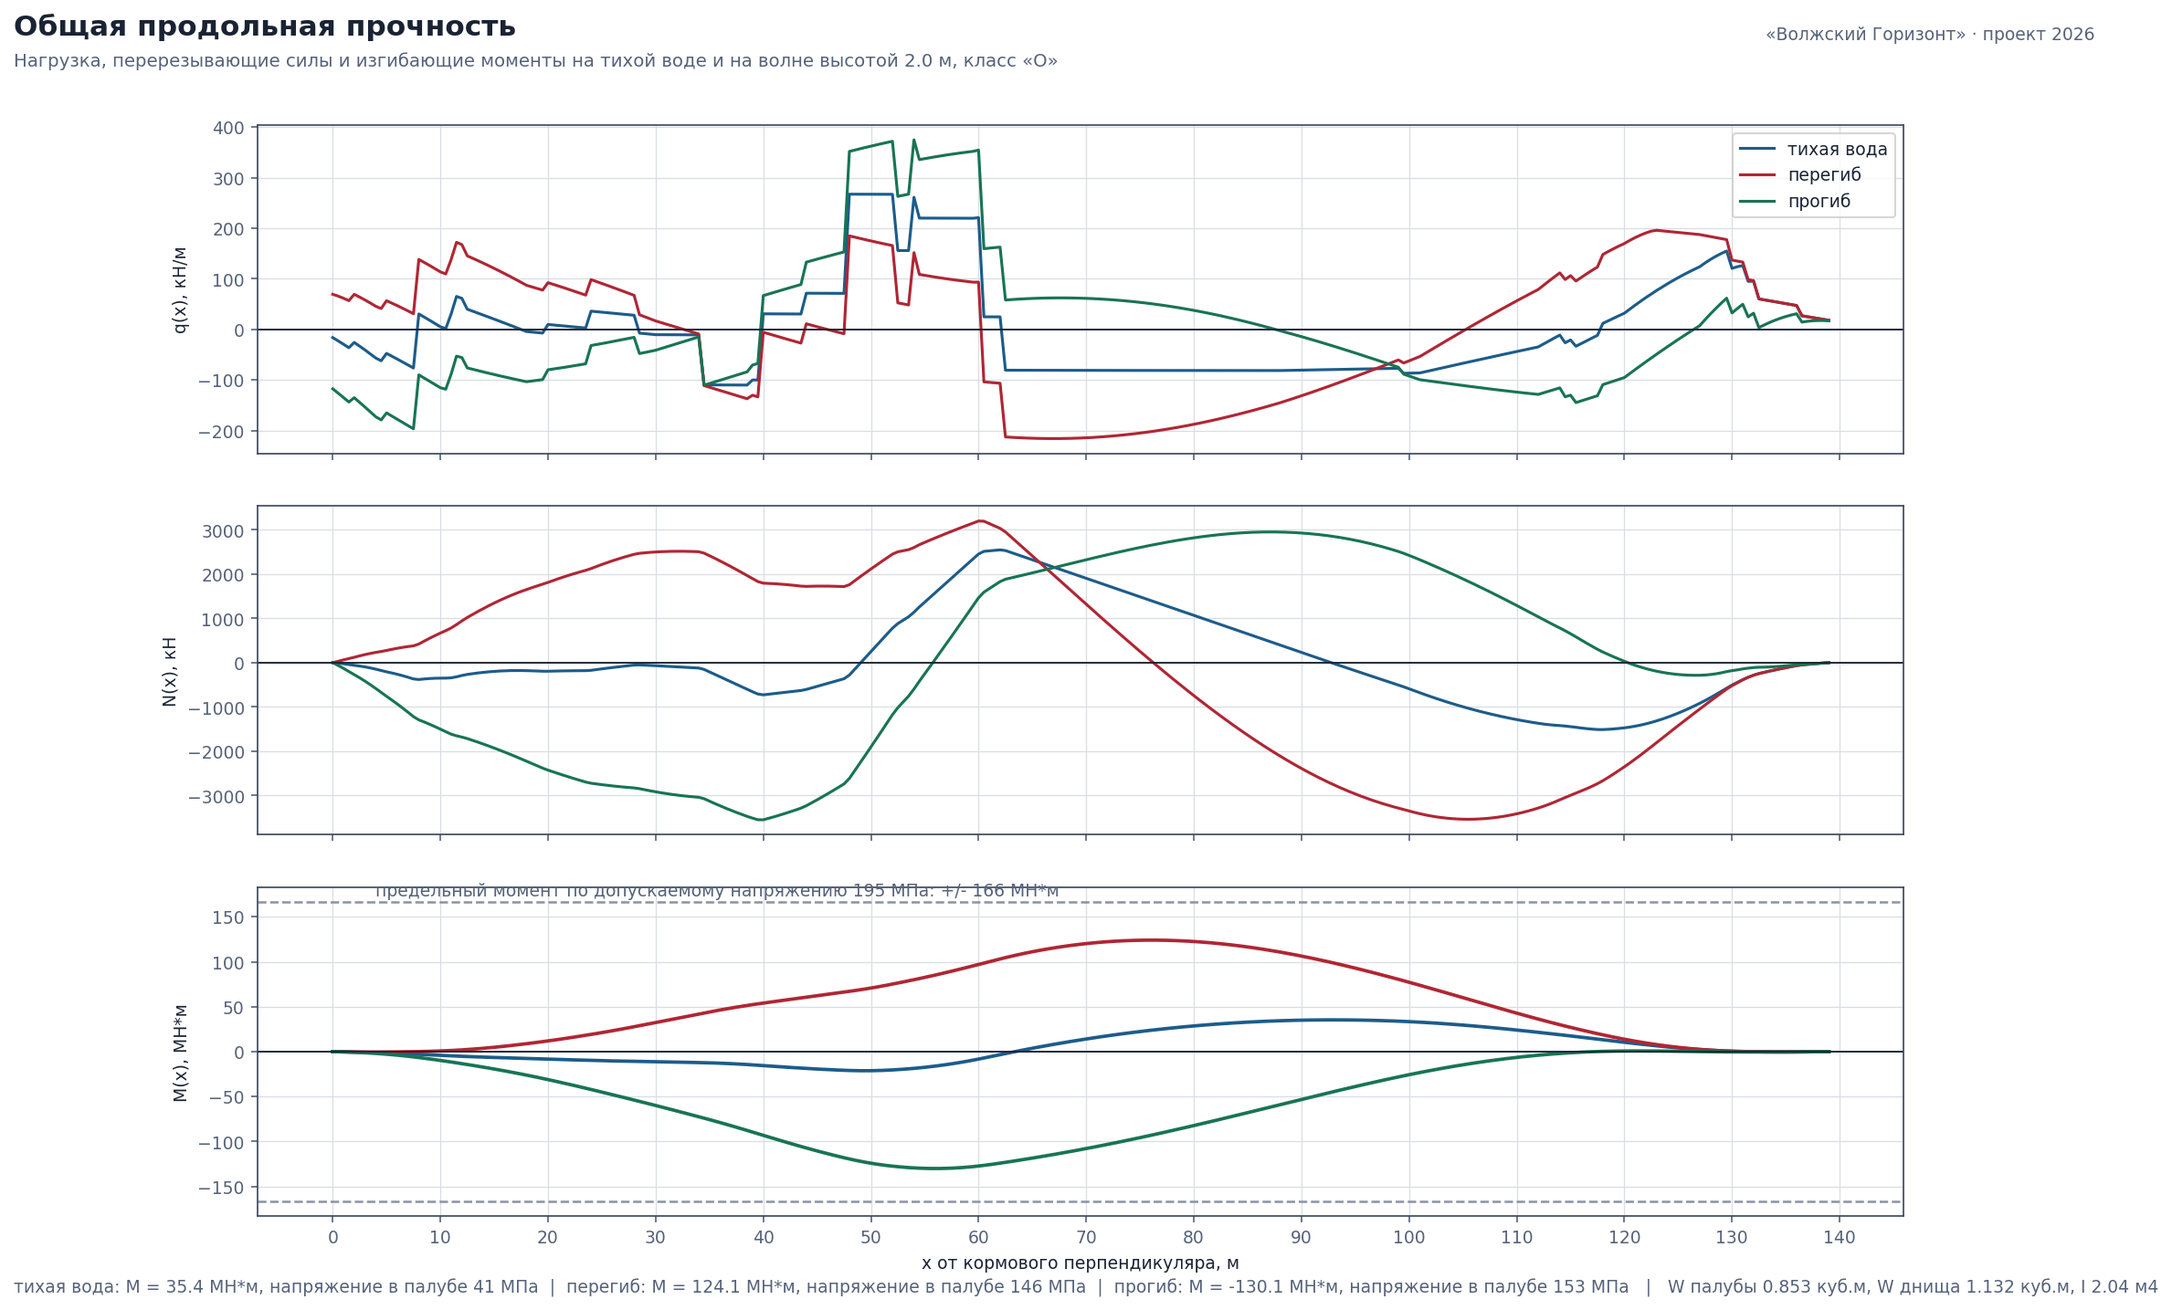
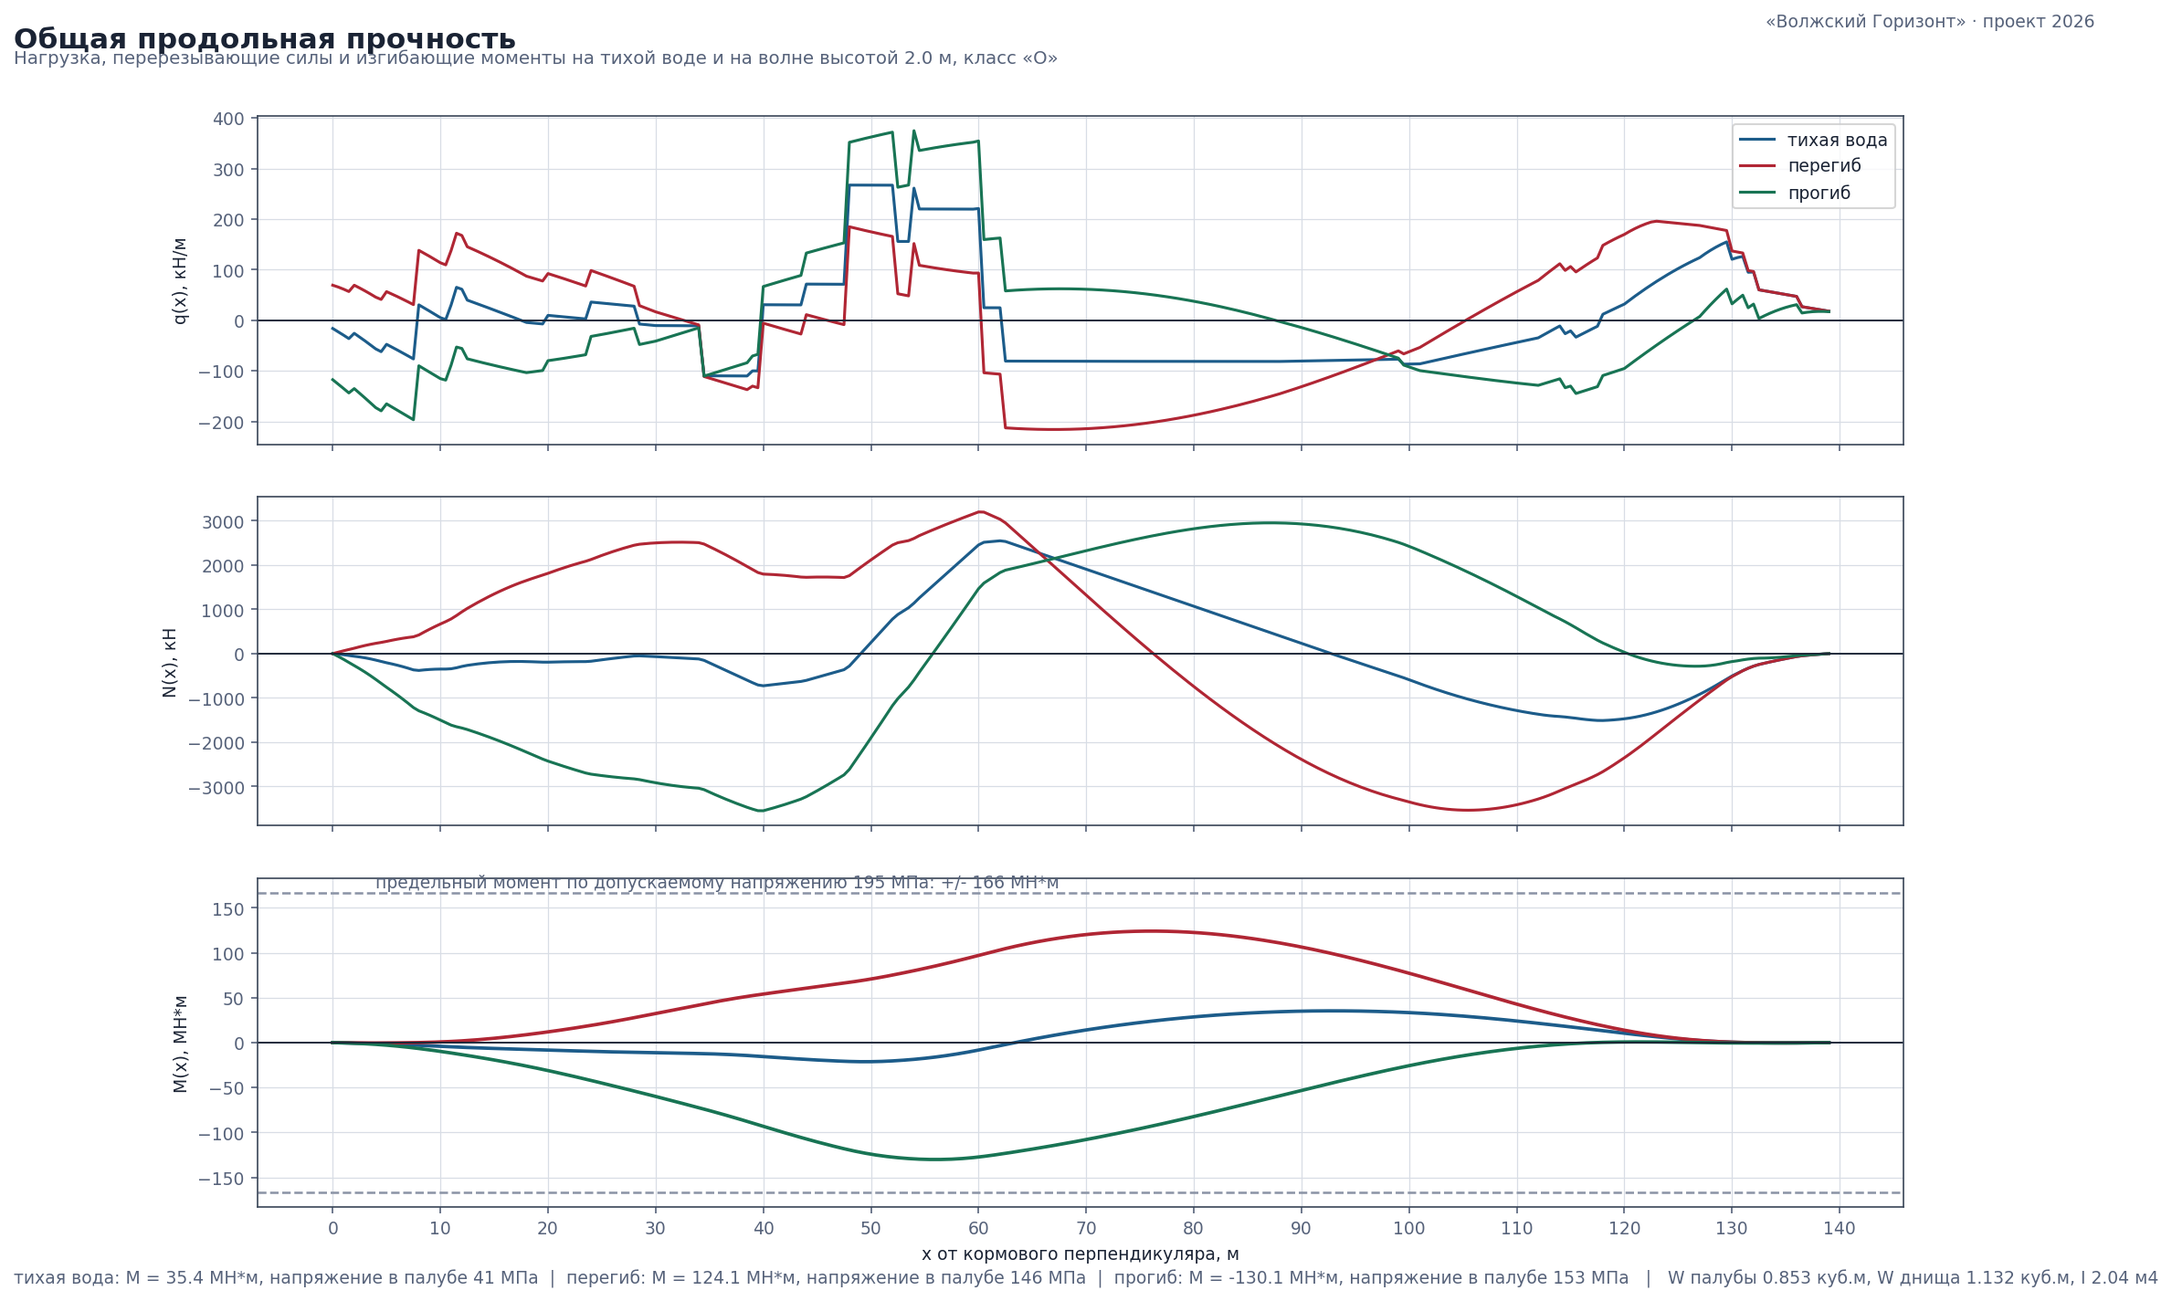
Сводный лист расчётов и скрипты, которые строят всю графику
Лист «Теория корабля и прочность» собирает на одном полотне теоретический
чертёж, кривые элементов, диаграммы остойчивости, ходкость, продольную
прочность, конструктивный мидель-шпангоут и чертёж кницы — для защиты
проекта и для беглого просмотра с телефона.

Скрипты построения перенесены из временной папки в scripts/ и работают от
корня репозитория, без абсолютных путей: любой в команде может пересобрать
графику после правки обводов или нагрузки.

Убрал дублирующий теоретический чертёж из расчёты_графики.py — он строится
отдельным скриптом в едином масштабе по всем трём проекциям.

diff --git a/scripts/расчёты_графики.py b/scripts/расчёты_графики.py
@@ -21,9 +21,12 @@ INK, ACC, SEA, GRN = "#1a2334", "#b02634", "#1c5c8a", "#187454"
 
 
 def head(fig, title, sub):
-    fig.suptitle(title, fontsize=15, fontweight="bold", x=0.01, ha="left", y=0.985)
-    fig.text(0.01, 0.945, sub, fontsize=9.5, color="#56627a", ha="left")
-    fig.text(0.99, 0.965, "«Волжский Горизонт» · проект 2026", fontsize=9,
+    h = fig.get_figheight()
+    y1 = 1.0 - 0.30 / h
+    y2 = 1.0 - 0.58 / h
+    fig.suptitle(title, fontsize=15, fontweight="bold", x=0.01, ha="left", y=y1)
+    fig.text(0.01, y2, sub, fontsize=9.5, color="#56627a", ha="left")
+    fig.text(0.99, y1 - 0.01 / h, "«Волжский Горизонт» · проект 2026", fontsize=9,
              color="#56627a", ha="right")
 
 
@@ -33,95 +36,13 @@ def save(fig, name):
     print("  ", name)
 
 
-def lines_plan():
-    fig = plt.figure(figsize=(15.5, 9.2))
-    head(fig, "Теоретический чертёж",
-         "Бок, полуширота и корпус. Шпации через 10 м, ватерлинии через 0.5 м")
-    gs = fig.add_gridspec(2, 2, width_ratios=[2.35, 1], height_ratios=[1, 1],
-                          hspace=0.22, wspace=0.14, top=0.90, bottom=0.06)
-    xs = [i * 0.5 for i in range(int(G.LOA / 0.5) + 1)]
-    T = H.equilibrium()["T"]
-
-    ax = fig.add_subplot(gs[0, 0])
-    for y in (0.5, 2.0, 4.0, 6.0, 7.5):
-        zz, xx = [], []
-        for x in xs:
-            b_dn, b_sk, b_pal, z_sk, z_kil, z_brt = H._station(x)
-            z = None
-            n = int((z_brt - z_kil) / 0.02) + 1
-            for k in range(n):
-                zt = z_kil + k * 0.02
-                if H.half_breadth(x, zt) >= y:
-                    z = zt
-                    break
-            if z is not None:
-                xx.append(x)
-                zz.append(z)
-        if xx:
-            ax.plot(xx, zz, color=INK, lw=1.0)
-            ax.annotate("%.1f" % y, (xx[0], zz[0]), fontsize=7, color=SEA,
-                        xytext=(2, 2), textcoords="offset points")
-    ax.plot(xs, [H._station(x)[4] for x in xs], color=INK, lw=1.6)
-    ax.plot(xs, [G.DEPTH] * len(xs), color=INK, lw=1.6)
-    for x in range(0, 140, 10):
-        ax.plot([x, x], [0, G.DEPTH], color="#b8c0cc", lw=0.6)
-    ax.axhline(T, color=SEA, lw=1.4)
-    ax.annotate("ВЛ %.2f м" % T, (2, T + 0.08), color=SEA, fontsize=8)
-    ax.set_xlim(-3, 142)
-    ax.set_ylim(-0.4, 5.2)
-    ax.set_title("Бок: батоксы, м от ДП", fontsize=10, loc="left")
-    ax.set_xlabel("x от кормового перпендикуляра, м")
-    ax.set_ylabel("z, м")
-    ax.set_aspect(2.6)
-
-    ax = fig.add_subplot(gs[1, 0])
-    for z in [0.5 * i for i in range(1, 9)]:
-        yy = [H.half_breadth(x, z) for x in xs]
-        ax.plot(xs, yy, color=INK, lw=1.0)
-        j = max(range(len(yy)), key=lambda i: yy[i])
-        ax.annotate("%.1f" % z, (xs[j] + 6, yy[j] - 0.35), fontsize=7, color=SEA)
-    ax.plot(xs, [H._station(x)[2] for x in xs], color=INK, lw=1.6)
-    for x in range(0, 140, 10):
-        ax.plot([x, x], [0, 8.6], color="#b8c0cc", lw=0.6)
-    ax.plot(xs, [H.half_breadth(x, T) for x in xs], color=SEA, lw=1.6)
-    ax.set_xlim(-3, 142)
-    ax.set_ylim(0, 9.2)
-    ax.set_title("Полуширота: ватерлинии через 0.5 м", fontsize=10, loc="left")
-    ax.set_xlabel("x, м")
-    ax.set_ylabel("полуширота, м")
-    ax.set_aspect(2.6)
-
-    ax = fig.add_subplot(gs[:, 1])
-    for x in (0, 10, 20, 30, 40, 50, 60, 69.5, 80, 90, 100, 110, 120, 127, 132, 136):
-        poly = H.section_polygon(x, G.DEPTH)
-        zs = [p[1] for p in poly]
-        sign = 1 if x >= 69.5 else -1
-        ys2 = [sign * abs(p[0]) for p in poly]
-        ax.plot(ys2, zs, color=ACC if x >= 69.5 else INK, lw=1.0)
-        ax.annotate("%d" % round(x),
-                    (sign * (max(abs(v) for v in ys2) + 0.15), max(zs) - 0.1),
-                    fontsize=7, color="#56627a",
-                    ha="left" if sign > 0 else "right")
-    ax.axvline(0, color="#3a4658", lw=1.2)
-    ax.axhline(T, color=SEA, lw=1.2)
-    for z in [0.5 * i for i in range(1, 9)]:
-        ax.axhline(z, color="#e2e6ec", lw=0.6)
-    ax.set_xlim(-9.4, 9.4)
-    ax.set_ylim(-0.3, 5.0)
-    ax.set_aspect(1.0)
-    ax.set_title("Корпус: слева корма, справа нос", fontsize=10, loc="left")
-    ax.set_xlabel("полуширота, м")
-    ax.set_ylabel("z, м")
-    save(fig, "01_теоретический_чертёж.png")
-
-
 def hydro_curves():
     ts = [0.8 + 0.2 * i for i in range(17)]
     rows = [H.hydrostatics(t) for t in ts]
     fig, axs = plt.subplots(1, 4, figsize=(15.5, 5.6))
     head(fig, "Кривые элементов теоретического чертежа",
          "Осадка от 0.8 до 4.0 м. Штриховая линия — расчётная осадка в полном грузу")
-    fig.subplots_adjust(top=0.84, wspace=0.34, bottom=0.12)
+    fig.subplots_adjust(top=0.80, wspace=0.34, bottom=0.12)
     T = H.equilibrium()["T"]
     sets = [
         [("Водоизмещение V, куб.м", [r["V"] for r in rows], SEA),
@@ -150,7 +71,7 @@ def bonjean_and_load():
     fig, axs = plt.subplots(2, 1, figsize=(15.5, 7.4), sharex=True)
     head(fig, "Строевая по шпангоутам и нагрузка масс",
          "Слева корма. Площади погружённых сечений и распределение массы по длине")
-    fig.subplots_adjust(top=0.87, hspace=0.18, bottom=0.09)
+    fig.subplots_adjust(top=0.85, hspace=0.18, bottom=0.09)
     om = [H.section_area(x, T) for x in xs]
     axs[0].fill_between(xs, om, color=SEA, alpha=0.18)
     axs[0].plot(xs, om, color=SEA, lw=1.8)
@@ -178,7 +99,7 @@ def stability_plots():
     fig, axs = plt.subplots(1, 3, figsize=(15.5, 5.4))
     head(fig, "Остойчивость на больших углах крена",
          "Сплошная — только корпус до 4.20 м, штриховая — с закрытой надстройкой до 7.00 м")
-    fig.subplots_adjust(top=0.84, wspace=0.26, bottom=0.14)
+    fig.subplots_adjust(top=0.80, wspace=0.26, bottom=0.14)
     axs[0].plot(a["theta"], a["lk"], color=SEA, lw=2, label="корпус")
     axs[0].plot(b["theta"], b["lk"], color=SEA, lw=1.6, ls="--", label="с надстройкой")
     axs[0].set_title("Пантокарены l_k", fontsize=10, loc="left")
@@ -246,7 +167,7 @@ def resistance_plots():
     fig, axs = plt.subplots(1, 2, figsize=(15.5, 5.4))
     head(fig, "Ходкость",
          "Сопротивление и потребная мощность на глубокой воде, ограничение по глубине фарватера")
-    fig.subplots_adjust(top=0.84, wspace=0.22, bottom=0.16)
+    fig.subplots_adjust(top=0.80, wspace=0.22, bottom=0.16)
     axs[0].plot(vs, [p["R"] for p in deep], color=SEA, lw=2, label="полное R")
     axs[0].plot(vs, [0.5 * H.RHO * 1000 * p["S"] * p["v"] ** 2 *
                      (p["Cf"] * (1 + p["k"]) + 0.0004) / 1000 for p in deep],
@@ -289,7 +210,6 @@ def resistance_plots():
 
 if __name__ == "__main__":
     print("строю графики:")
-    lines_plan()
     hydro_curves()
     bonjean_and_load()
     stability_plots()

diff --git a/scripts/лист_расчётов.py b/scripts/лист_расчётов.py
@@ -1,0 +1,71 @@
+# -*- coding: utf-8 -*-
+"""Сводный лист расчётов по теории корабля."""
+import os, sys
+ROOT = os.path.abspath(os.path.join(os.path.dirname(__file__), ".."))
+sys.path.insert(0, os.path.join(ROOT, "src"))
+from PIL import ImageFont
+F = r"C:\Windows\Fonts"
+def font(sz, b=False):
+    return ImageFont.truetype(os.path.join(F, "segoeuib.ttf" if b else "segoeui.ttf"), sz)
+def text(d, xy, s, f, fill=(24,34,52), anchor="la"):
+    d.text(xy, s, font=f, fill=fill, anchor=anchor)
+def tw(d, s, f):
+    b = d.textbbox((0,0), s, font=f); return b[2]-b[0], b[3]-b[1]
+ROOT_R = os.path.join(ROOT, "renders", "горизонт_2026")
+from PIL import Image, ImageDraw
+from lib import gorizont_hydro as H, gorizont_struct as SS, gorizont_strength as St
+
+R = ROOT_R
+CALC = os.path.join(R, "расчёты")
+DRW = os.path.join(R, "чертежи")
+W, Ht = 3400, 7300
+img = Image.new("RGB", (W, Ht), (255, 255, 255))
+d = ImageDraw.Draw(img)
+
+d.rectangle([0, 0, W, 196], fill=(18, 30, 48))
+text(d, (64, 34), "ТЕОРИЯ КОРАБЛЯ И ПРОЧНОСТЬ", font(66, b=True), (255, 255, 255))
+text(d, (64, 122), "«Волжский Горизонт» · проект 2026 · команда УЖЦ ОСК · "
+     "методика СПбГМТУ", font(26), (176, 190, 212))
+e = H.equilibrium(); st = H.initial_stability(); g = SS.equivalent_girder()
+rr = St.stresses()
+right = [("%.2f м" % e["T"], "осадка в полном грузу"),
+         ("%.0f т" % e["D"], "водоизмещение"),
+         ("%.2f м" % st["h"], "метацентрическая высота"),
+         ("%.0f / %.0f МПа" % (max(x["sigma_deck"] for x in rr["rows"]),
+                               rr["sigma_allow"]), "напряжение / допускаемое")]
+x = W - 64
+for t, s in reversed(right):
+    w = max(tw(d, t, font(32, b=True))[0], tw(d, s, font(19))[0])
+    text(d, (x, 48), t, font(32, b=True), (255, 255, 255), anchor="ra")
+    text(d, (x, 94), s, font(19), (150, 168, 196), anchor="ra")
+    x -= w + 56
+
+
+def fit(path, x, y, w):
+    if not os.path.exists(path):
+        return y
+    im = Image.open(path).convert("RGB")
+    s = w / im.width
+    im = im.resize((w, int(im.height * s)), Image.LANCZOS)
+    img.paste(im, (x, y))
+    return y + im.height
+
+
+y = 226
+y = fit(os.path.join(CALC, "01_теоретический_чертёж.png"), 40, y, W - 80) + 18
+y = fit(os.path.join(CALC, "02_кривые_элементов.png"), 40, y, W - 80) + 18
+y = fit(os.path.join(CALC, "04_остойчивость.png"), 40, y, W - 80) + 18
+y = fit(os.path.join(CALC, "06_ходкость.png"), 40, y, W - 80) + 18
+y = fit(os.path.join(CALC, "05_продольная_прочность.png"), 40, y, W - 80) + 18
+y2 = fit(os.path.join(DRW, "01_мидель_шпангоут.png"), 40, y, (W - 100) // 2)
+fit(os.path.join(DRW, "03_кница_спонсона.png"), 60 + (W - 100) // 2, y, (W - 100) // 2)
+print("высота получилась", max(y2, y))
+img = img.crop((0, 0, W, min(Ht, max(y2, y) + 90)))
+d = ImageDraw.Draw(img)
+d.rectangle([0, img.size[1] - 70, W, img.size[1]], fill=(18, 30, 48))
+text(d, (64, img.size[1] - 52),
+     "docs/расчёты/теория_корабля.md · src/lib/gorizont_hydro.py, gorizont_struct.py, "
+     "gorizont_strength.py · scripts/расчёты_графики.py",
+     font(20), (150, 168, 196))
+img.save(os.path.join(R, "лист_расчётов_горизонт.png"))
+print("готово", img.size)

diff --git a/README.md b/README.md
@@ -212,7 +212,8 @@ renders/горизонт_2026/
     схемы/                      разрезы, взрыв-модель, доступность, системы, набор
     расчёты/                    теоретический чертёж, кривые, ДСО, прочность, ходкость
     чертежи/                    мидель-шпангоут, схема набора, чертёж детали
-    лист_проекта_горизонт.png   сводный лист
+    лист_проекта_горизонт.png   сводный лист проекта
+    лист_расчётов_горизонт.png  сводный лист расчётов по теории корабля
 ```
 
 ## Как пересчитать числа
@@ -228,6 +229,11 @@ python -c "import sys; sys.path.insert(0,'src'); from lib import gorizont_ga as 
 ```bash
 python -c "import sys;sys.path.insert(0,'src');from lib import gorizont_hydro as H;e=H.equilibrium();print('T=%.3f  h=%.3f'%(e['T'],H.initial_stability()['h']))"
 python -c "import sys;sys.path.insert(0,'src');from lib import gorizont_strength as S;[print(r['condition'],round(r['sigma_deck'],1)) for r in S.stresses()['rows']]"
-python scripts/расчёты_графики.py      # перестроить графики расчётов
-python scripts/чертёж_мидель.py        # перестроить чертёж мидель-шпангоута
+python scripts/расчёты_графики.py      # кривые, ДСО, прочность, ходкость
+python scripts/теоретический_чертёж.py # теоретический чертёж
+python scripts/корпус_и_ординаты.py    # корпус и таблица плазовых ординат
+python scripts/чертёж_мидель.py        # конструктивный мидель-шпангоут
+python scripts/чертёж_набора.py        # схема набора корпуса
+python scripts/чертёж_кницы.py         # чертёж детали и DXF
+python scripts/лист_расчётов.py        # сводный лист расчётов
 ```
